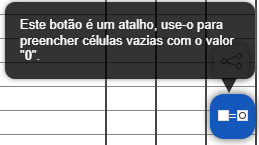
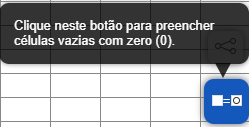
HTML: Adicionei endereço de acesso ao 'Totalizador de Resumo Mensal de TDI' no rodapé da página e actualizei o conteúdo da ajuda 'Célula vazia = zero'.

diff --git a/index.html b/index.html
@@ -1516,7 +1516,7 @@
                 <h3 class="artigo__titulo artigo__titulo--nivel-2">Objectivos</h3>
                 <ul class="artigo__lista artigo__lista--ul">
                     <li>Auxiliar os profissionais de saúde na totalização do resumo mensal de consultas externas com exatidão e prontidão;</li>
-                    <li>Minimizar possíveis erros de totalização (por exemplo, somar involuntariamente células não correspondentes ou registar o total da linha A, na linha B);</li>
+                    <li>Minimizar possíveis erros de totalização (por exemplo, somar involuntariamente células não correspondentes ou registar o total da linha "A", na linha "B");</li>
                     <li>Expandir o acesso à ficha de resumo mensal de consultas externas.</li>
                 </ul>
                 <h3 class="artigo__titulo artigo__titulo--nivel-2 ">O que eu preciso dispor para, e como utilizar o totalizador?</h3>
@@ -1594,7 +1594,7 @@
                 </details>
                 <details class="artigo__details artigo__details--border-b artigo__details--celulas-vazias-igual-zero">
                     <summary class="details__summary">Atalho "Célula vazia igual a zero"</summary>
-                    <p>Se for preencher várias células com o valor "<b>0</b>", pode fazê-lo de forma simples e rápida clicando no botão ilustrado abaixo. O atalho funciona para células vazias, portanto, deverá preencher manualmente as células cujos valores dos indicadores são diferentes de zero, e ignorar as que preencherá com "<b>0</b>" através do botão e/ou atalho.</p>
+                    <p>Se for preencher várias células com o valor "<b>0</b>", pode fazê-lo de forma simples e rápida clicando no botão ilustrado abaixo. O botão preenche apenas células vazias, ignorando as que já estiverem preenchidas.</p>
                     <figure class="details__moldura">
                         <img src="imagens/atalho-celula-vazia-igual-a-zero.png" alt="Atalho 'Célula vazia igual a zero'" class="artigo__img" />
                     </figure>
@@ -1608,6 +1608,7 @@
                 <nav class=footer__nav>
                     <h4 class="footer__nav__title">Hiperligações para outros serviços afins</h4>
                     <ul>
+                        <li><a href=https://quinamine.github.io/totalizador-de-resumo-mensal-de-tdi/index.html class="footer__nav__link">Totalizador de Resumo Mensal de TDI</a></li>
                         <li><a href=https://quinamine.github.io/totalizador-de-resumo-mensal-de-nutricao/index.html class="footer__nav__link">Totalizador de Resumo Mensal de Nutrição</a></li>
                         <li><a href=https://quinamine.github.io/totalizador-de-resumo-mensal-de-its/index.html class="footer__nav__link">Totalizador de Resumo Mensal de ITS</a></li>
                         <li><a href=https://quinamine.github.io/totalizador-de-resumo-mensal-de-doenca-avancada-por-hiv/index.html class="footer__nav__link">Totalizador de Resumo Mensal de Doença Avançada por HIV</a></li>
@@ -1629,7 +1630,7 @@
                         <li><a href=https://quinamine.github.io/totalizador-de-resumo-mensal-de-ats/index.html class="footer__nav__link">Totalizador de Resumo Mensal de ATS</a></li>
                         <li><a href=https://quinamine.github.io/requisicao-balancete/index.html class="footer__nav__link">Totalizador de Requisição/Balancete</a></li>
                         <li><a href=https://quinamine.github.io/totalizador-de-resumo-mensal-de-prn-i/index.html class="footer__nav__link">Totalizador de Resumo Mensal de PRN I</a></li>
-                        <li><a href=https://quinamine.github.io/totalizador-de-resumo-mensal-de-nutricao/index.html class="footer__nav__link">Totalizador de Resumo Mensal de Nutrição</a></li>
+                        <li><a href=https://quinamine.github.io/totalizador-de-resumo-mensal-de-prn-ii/index.html class="footer__nav__link">Totalizador de Resumo Mensal de PRN II</a></li>
                         <li><a href=https://quinamine.github.io/totalizador-de-resumo-mensal-de-malaria/index.html class="footer__nav__link">Totalizador de Resumo Mensal de Malária</a></li>
                         <li><a href=https://quinamine.github.io/totalizador-de-resumo-mensal-de-ccd/index.html class="footer__nav__link">Totalizador de Resumo Mensal de CCD</a></li>
                         <li><a href=https://quinamine.github.io/totalizador-de-resumo-mensal-de-saaj/index.html class="footer__nav__link">Totalizador de Resumo Mensal de SAAJ</a></li>

diff --git a/readme.md b/readme.md
@@ -9,7 +9,7 @@ O **Totalizador de Resumo Mensal de Consultas** é um serviço online gratuito q
 
 * Auxiliar os profissionais de saúde na totalização do resumo mensal de consultas externas com exatidão e prontidão;
 
-* Minimizar possíveis erros de totalização (por exemplo, somar involuntariamente células não correspondentes ou registar o total da linha A, na linha B);
+* Minimizar possíveis erros de totalização (por exemplo, somar involuntariamente células não correspondentes ou registar o total da linha "A", na linha "B");
 
 * Expandir o acesso à ficha de resumo mensal de consultas externas.
 
